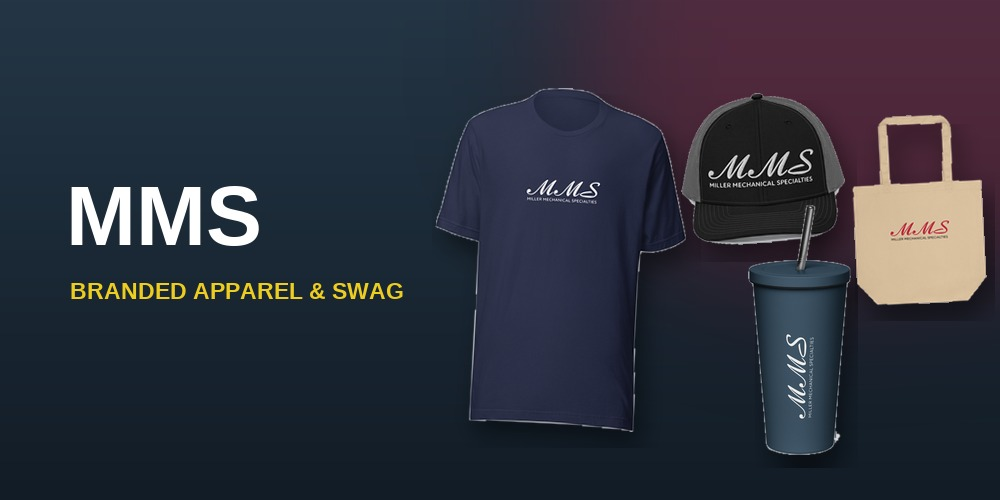
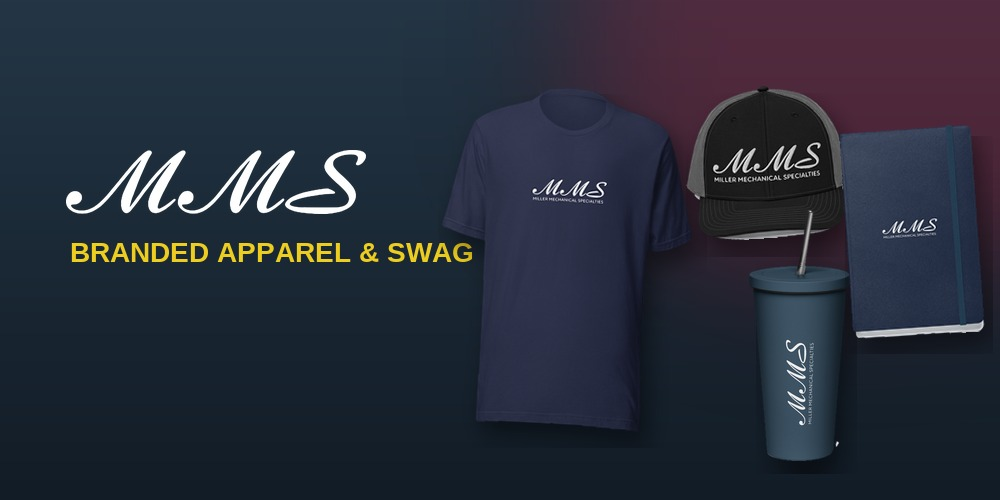
Tile: real MMS script, clean edges, bigger strapline; drop tote from store
- Jagged white rim fixed: the matte was computed at 340px and upscaled, leaving
  a light fringe of studio backdrop. Now computed at 512px, eroded (MinFilter)
  and feathered with a contrast ramp, so products sit cleanly on the tile.
- Uses the REAL MMS script logo instead of typing "MMS" in a font: crops
  assets/print/mms_white.png above the blank band that separates the script from
  the tagline (band detected, not hardcoded), so no tagline text appears.
- "BRANDED APPAREL & SWAG" enlarged, and auto-fitted to the left column so it
  can never run under the product cluster.
- Tote removed from the store (published:false) per request and swapped out of
  the tile for the hardcover journal. Its catalog entry + Printful mapping stay
  in place in case it's wanted back. Store now shows 16 items.

test_print_accuracy + test_budget: ALL PASSED.

diff --git a/gen_swag_tile.py b/gen_swag_tile.py
@@ -25,7 +25,31 @@ def vgrad(size, top, bot):
     return g.resize((w, h))
 
 
-def cutout(path, light=222, small=340):
+def script_logo():
+    """The official MMS script WITHOUT the tagline, in white (for the navy tile).
+
+    Crops assets/print/mms_white.png above the blank band that separates the
+    script from the 'MILLER MECHANICAL SPECIALTIES' wordmark, so we use the real
+    brand asset rather than typing 'MMS' in a font."""
+    im = Image.open(os.path.join(APP, "assets", "print", "mms_white.png")).convert("RGBA")
+    a = im.split()[3]; w, h = im.size; px = a.load()
+    rows = []
+    for y in range(h):
+        rows.append(any(px[x, y] > 40 for x in range(0, w, 4)))
+    gap_start, best, cur = None, None, None      # widest blank band in the lower half
+    for y in range(h):
+        if not rows[y]:
+            cur = y if cur is None else cur
+        elif cur is not None:
+            if cur > h * 0.4 and (best is None or (y - cur) > best[1] - best[0]):
+                best = (cur, y)
+            cur = None
+    cut = best[0] if best else h
+    out = im.crop((0, 0, w, cut))
+    return out.crop(out.split()[3].getbbox())
+
+
+def cutout(path, light=222, small=512):
     """Lift the product off its studio backdrop -> RGBA, tight-cropped.
 
     Flood-fills the LIGHT region inward from the borders, so the backdrop (which
@@ -75,7 +99,12 @@ def cutout(path, light=222, small=340):
         for x in range(small):
             if row[x]:
                 mp[x, y] = 0
-    m = m.resize(im.size, Image.LANCZOS).filter(ImageFilter.GaussianBlur(1.2))
+    m = m.resize(im.size, Image.LANCZOS)
+    # Pull the matte IN a couple of pixels then feather it. Without this the
+    # upscaled mask keeps a light rim of studio backdrop, which reads as a
+    # jagged white outline once the product sits on the dark tile.
+    m = m.filter(ImageFilter.MinFilter(5)).filter(ImageFilter.GaussianBlur(1.6))
+    m = m.point(lambda p: 0 if p < 90 else min(255, int((p - 90) * 255 / 130)))
     out = im.convert("RGBA"); out.putalpha(m)
     bbox = m.point(lambda p: 255 if p > 40 else 0).getbbox()
     return out.crop(bbox) if bbox else out
@@ -100,15 +129,29 @@ def build():
     ImageDraw.Draw(glow).ellipse([W - 470, -150, W + 150, 320], fill=(200, 16, 46, 70))
     base.alpha_composite(glow.filter(ImageFilter.GaussianBlur(75)))
 
+    # Real MMS script logo (no tagline), not typed text
+    lg = script_logo()
+    lw = 300
+    lg = lg.resize((lw, max(1, int(lg.height * lw / lg.width))), Image.LANCZOS)
+    base.alpha_composite(lg, (66, 150))
+
     d = ImageDraw.Draw(base)
-    d.text((66, 168), "MMS", font=ImageFont.truetype(FB, 84), fill=(255, 255, 255))
-    d.text((70, 278), "BRANDED APPAREL & SWAG", font=ImageFont.truetype(FB, 23), fill=GOLD)
+    # Auto-fit the strapline to the left column so it can never run under the
+    # product cluster (the products start around x=430).
+    label, maxw = "BRANDED APPAREL & SWAG", 408
+    size = 34
+    while size > 16:
+        fnt = ImageFont.truetype(FB, size)
+        if d.textlength(label, font=fnt) <= maxw:
+            break
+        size -= 1
+    d.text((70, 150 + lg.height + 22), label, font=fnt, fill=GOLD)
 
     # (file, centre x, centre y, height, rotation) - real store mockups
-    layout = [("ap3.png", 560, 258, 340, -3),    # tee
-              ("ap10.png", 762, 168, 150, 4),    # cap
-              ("ev4.png", 800, 330, 250, 0),     # tumbler
-              ("sw4.png", 918, 210, 190, 3)]     # tote
+    layout = [("ap3.png", 566, 258, 340, -3),    # tee
+              ("ap10.png", 768, 162, 152, 4),    # cap
+              ("ev4.png", 800, 336, 252, 0),     # insulated tumbler
+              ("ev7.png", 912, 232, 208, 4)]     # hardcover journal
     for fn, cx, cy, th, ang in layout:
         p = os.path.join(PROD, fn)
         if os.path.exists(p):

diff --git a/CLAUDE.md b/CLAUDE.md
@@ -40,7 +40,7 @@ See `.env.example` for the full list. Key ones:
 
 ## How ordering + approvals work
 - **Cards / Documents:** checkout on their own page, company card only, receipt auto-emailed to `ACCOUNTING_EMAIL` via Microsoft Graph with orderer/qty/price/purpose/justification. Business-card **qty per order is capped by role** (employee 100 / FSE 500 / manager unlimited), enforced in `checkout_cards` + the qty dropdown in `cards.html`.
-- **Swag storefront (ecommerce-style):** `/swag` shows only **published** items (`published:true` in `swag_catalog.json` — currently 17: the 7 apparel, the tote (now real Printful fulfillment), and 9 tradeshow/event items ev1-ev9 (stickers, koozie, magnet, insulated + stainless tumbler, water bottle, journal, mouse pad, golf towel); the mug and the old vendor promo items stay in the catalog but unpublished) as **preview-only** cards (image, name, price, colour dots) that link to a **product detail page** `/swag/product/<id>` (route `swag_product`, `templates/product.html`). ALL customization lives on the PDP: colour swatches, size, and a colour-aware **logo picker**, with a large hero image that **swaps to the exact pre-rendered colour×logo mockup in real time**. Add-to-cart happens on the PDP. Pre-rendered combos live at `assets/products/variants/<id>__<colour-slug>__<logo-key>.png` (see `gen_products.py variants`); `app.py` builds each item's `img_variants` map from the files that exist.
+- **Swag storefront (ecommerce-style):** `/swag` shows only **published** items (`published:true` in `swag_catalog.json` — currently 16: the 7 apparel and 9 tradeshow/event items ev1-ev9 (stickers, koozie, magnet, insulated + stainless tumbler, water bottle, journal, mouse pad, golf towel); the mug and the old vendor promo items stay in the catalog but unpublished) as **preview-only** cards (image, name, price, colour dots) that link to a **product detail page** `/swag/product/<id>` (route `swag_product`, `templates/product.html`). ALL customization lives on the PDP: colour swatches, size, and a colour-aware **logo picker**, with a large hero image that **swaps to the exact pre-rendered colour×logo mockup in real time**. Add-to-cart happens on the PDP. Pre-rendered combos live at `assets/products/variants/<id>__<colour-slug>__<logo-key>.png` (see `gen_products.py variants`); `app.py` builds each item's `img_variants` map from the files that exist.
 - **Real costs (item vs shipping) — shown everywhere:** each Printful item's `price` (base size), `price_by_size` (2XL+ genuinely costs more), `ship_first` and `ship_addl` are pulled from the live Printful catalog + a real shipping quote and frozen by **`python gen_products.py costs`**. The storefront, PDP (live per size/qty) and cart all show *item cost + estimated shipping = total MMS pays*. `app.item_unit_cost()` prices the chosen size and `app.estimate_shipping()` mirrors Printful's model (highest first-item rate + additional per extra unit). **The budget is charged goods + shipping** (both are company money). ⚠ Old prices were guesses and understated reality — the UA polo was listed $28 but costs $50.95. Re-run `costs` whenever Printful pricing changes.
 - **Cards / Documents show REAL cost + shipping + delivery** via `gelato.quote_summary()` and `/api/quote/cards` / `/api/quote/documents` (needs `GELATO_API_KEY` and a non-dry `GELATO_MODE`). The quote picks the cheapest shipment method of the same *type* we order with (`SHIPMENT_METHOD`), so quoted shipping matches what's charged; receipts carry the real total. **Documents have their own cart** (`/documents/cart`, localStorage `mms_doccart_v1`) — `checkout_documents` takes `items=[{id,qty}]`. Business cards place immediately (no cart); order context is section 1 on both.
 - **Swag:** cart + role-aware **budget** checkout (`budget.py`). Company-card orders place immediately while the user is within their 2-month budget (FSE $250 / employee $100); an order that would exceed the remaining budget routes to the manager for one approval, then places. **Money integrity:** the order total is recomputed server-side from `swag_catalog.json` (`_price_items()` — the client's price/name is never trusted; unknown/unpublished items and invalid colour/size/qty are rejected), and the budget is taken via the atomic `budget.try_reserve()`. **Managers are unlimited.** Spend accrues per user on every placed *and* approved company-card order (personal-card + manager orders never accrue). A budget bar (remaining $ + reset date, or "no limit" for managers) shows on every swag page via `base.html`. Personal card requires a "NOT reimbursable" acknowledgment and creates no accounting receipt; no self-approval. Approvals use HMAC-signed links `/approve/<oid>/<sig>` and `/reject/<oid>/<sig>`.
@@ -96,6 +96,7 @@ Draft = orders appear in the Printful/Gelato dashboards for review; not produced
 - `test_print_accuracy.py` — 302 offline assertions that the order payload's placement/position/logo/threads match the previewed spec for every published colour×logo combo.
 - `test_budget.py` — **run this before changing anything money-related**: `DATA_DIR=/tmp/bt MAIL_MODE=off python test_budget.py`. 30 assertions covering price tampering, invalid/unpublished items, exact budget boundaries, concurrent orders, per-person isolation, approval attribution + double-approval, personal card, refund-on-failure, and period rollover.
 - `catalog.py` + `data_catalog.json` — documents; `swag_catalog.json` — apparel/swag + fulfillment mappings + `image` per item.
-- `gen_swag_tile.py` — rebuilds the homepage Swag tile from REAL product mockups (border flood-fill cutout that keeps white logo strokes and clears enclosed holes like the tote handle). Re-run after adding/re-rendering products.
+- ⚠ The **tote (`sw4`) is unpublished** at the customer's request (they didn't want it in the store); it stays in the catalog with real Printful mappings if it's ever wanted back.
+- `gen_swag_tile.py` — rebuilds the homepage Swag tile from REAL product mockups (higher-res border flood-fill cutout, eroded + feathered so there is no jagged white rim; keeps white logo strokes, clears enclosed holes). Uses the REAL MMS script from `mms_white.png` with the tagline cropped off — never typed text — and auto-fits the strapline so it can't run under the products. Re-run after adding/re-rendering products.
 - `gen_products.py` — image generator: `fallback` (PIL silhouettes), `printful` (per-item hero mockups), and **`variants`** (pre-render every colour×logo combo → `assets/products/variants/`, batched by logo; `MOCKUP_SRC` covers the Gelato mug/tote via Printful imagery); `printful_mockups.py` — Printful Mockup Generator client (printfiles → placement/position → create-task/`generate_multi` → poll → download; 429 backoff).
 - `templates/` (incl. `swag.html` = preview storefront, `product.html` = product detail page), `static/`, `assets/` (`assets/print/` = logos + `vector/`, `assets/products/` = hero images + `variants/` = colour×logo mockups, `assets/tiles/` = homepage banners), `.github/workflows/keepalive.yml`.
